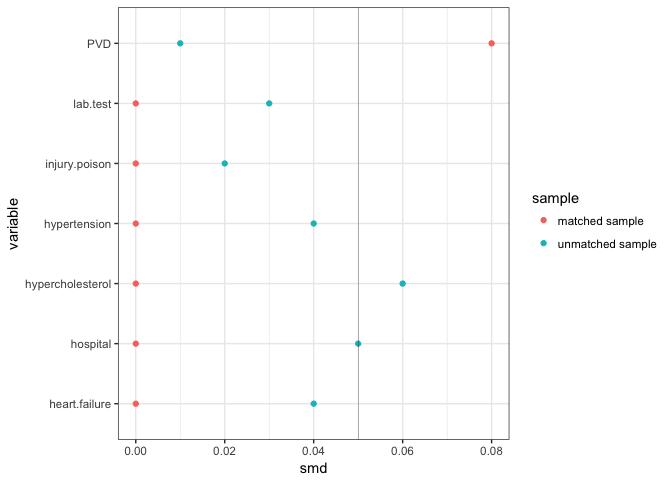
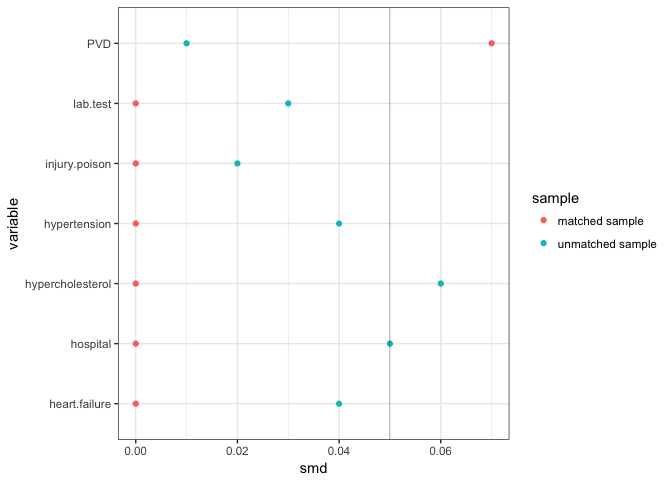
changed hard coding

diff --git a/SynPUF-propensity-model.md b/SynPUF-propensity-model.md
@@ -5,7 +5,7 @@ Erika Braithwaite
 
 First select individuals above 40 at the time they first showed up in the dataset; then exclude anyone died within one year; then select individuals with statin prescription after 2009-01-01 (set first prescription date as cohort entry date); then exclude anyone who took lipid-lowering drugs before 2009-01-01; also exclude anyone who had dialysis one year before cohort entry
 
-### Table 1. Covariate balance in total sample N = 839
+### Table 1. Covariate balance in total sample `7461`
 
 |                            |  low statin | high statin |  SMD  |
 |----------------------------|:-----------:|:-----------:|:-----:|
@@ -42,7 +42,7 @@ kable(model$nn)
 | hypertension = Yes (%)     | 375 (36.2) |  375 (36.2) | &lt;0.001 |
 | hypercholesterol = Yes (%) | 285 (27.5) |  285 (27.5) | &lt;0.001 |
 | heart.failure = Yes (%)    | 105 (10.1) |  105 (10.1) | &lt;0.001 |
-| PVD = Yes (%)              |  12 ( 1.2) |  22 ( 2.1)  |   0.076   |
+| PVD = Yes (%)              |  13 ( 1.3) |  22 ( 2.1)  |   0.067   |
 | injury.poison = Yes (%)    | 167 (16.1) |  167 (16.1) | &lt;0.001 |
 | hospital = Yes (%)         | 171 (16.5) |  171 (16.5) | &lt;0.001 |
 | lab.test = Yes (%)         | 526 (50.8) |  526 (50.8) | &lt;0.001 |
@@ -54,7 +54,7 @@ kable(model$nn)
 |   hypertension   |       0.04       |      0.00      |
 | hypercholesterol |       0.06       |      0.00      |
 |   heart.failure  |       0.04       |      0.00      |
-|        PVD       |       0.01       |      0.08      |
+|        PVD       |       0.01       |      0.07      |
 |   injury.poison  |       0.02       |      0.00      |
 |     hospital     |       0.05       |      0.00      |
 |     lab.test     |       0.03       |      0.00      |
@@ -68,7 +68,5 @@ kable(model$nn)
 ![](SynPUF-propensity-model_files/figure-markdown_github/distribution-plot-unmatched-1.png)
 
 ### Outcome models
-
-    ## Warning: Removed 1 rows containing missing values (geom_pointrange).
 
 ![](SynPUF-propensity-model_files/figure-markdown_github/Plot-models-1.png)
